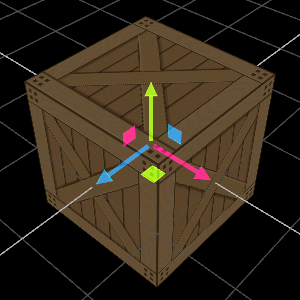
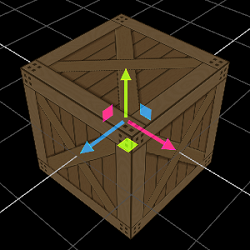
Readme has scale screenshot

diff --git a/README.md b/README.md
@@ -9,7 +9,8 @@
 [Try it out in a web demo](https://urholaukkarinen.github.io/egui-gizmo/)
 
 ![Rotation](media/rotation.gif)
-![Rotation](media/translation.png)
+![Translation](media/translation.png)
+![Scale](media/scale.png)
 
 ## Usage
 
